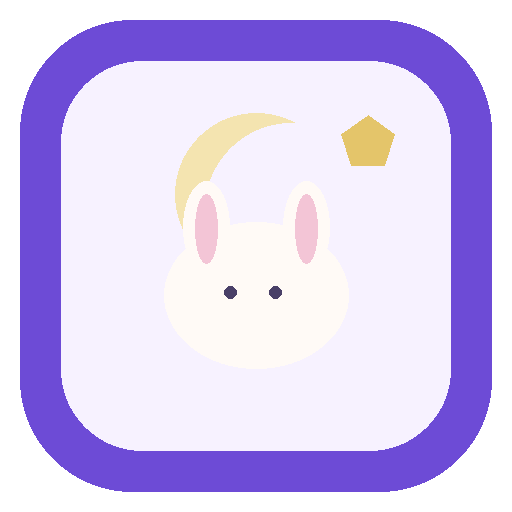
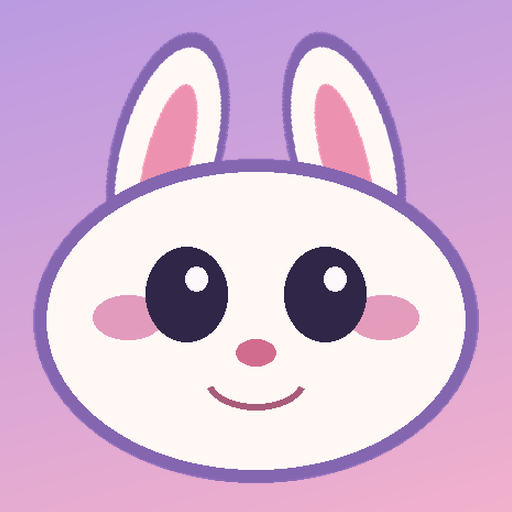
重做主屏幕图标，让月兔头铺满画面
去掉白底板和小装饰，改成淡紫到淡粉的整幅渐变。192、512、maskable、苹果 180 和 favicon 都换成这套图标，离线缓存版本升到 yuwen-root-v4。

diff --git a/index.html b/index.html
@@ -12,7 +12,9 @@
   <meta name="apple-mobile-web-app-title" content="每日十五分钟">
   <link rel="manifest" href="manifest.webmanifest">
   <link rel="apple-touch-icon" href="icons/apple-touch-icon.png">
-  <link rel="icon" href="icons/icon-192.png">
+  <link rel="icon" href="favicon.ico" sizes="32x32">
+  <link rel="icon" type="image/png" sizes="32x32" href="icons/favicon.png">
+  <link rel="icon" type="image/png" sizes="192x192" href="icons/icon-192.png">
   <link rel="stylesheet" href="css/app.css">
 </head>
 <body>

diff --git a/sw.js b/sw.js
@@ -1,4 +1,4 @@
-const CACHE = "yuwen-root-v3";
+const CACHE = "yuwen-root-v4";
 const ASSETS = [
   "./",
   "./index.html",
@@ -14,7 +14,10 @@ const ASSETS = [
   "./data/POEMS_SOURCES.md",
   "./icons/icon-192.png",
   "./icons/icon-512.png",
+  "./icons/icon-maskable-512.png",
   "./icons/apple-touch-icon.png",
+  "./icons/favicon.png",
+  "./favicon.ico",
 ];
 
 function relPath(url) {
